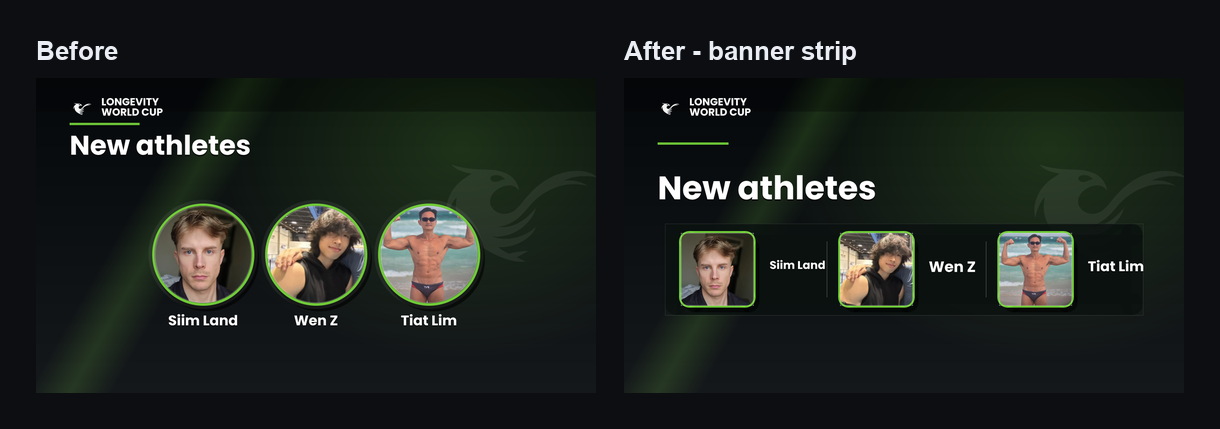
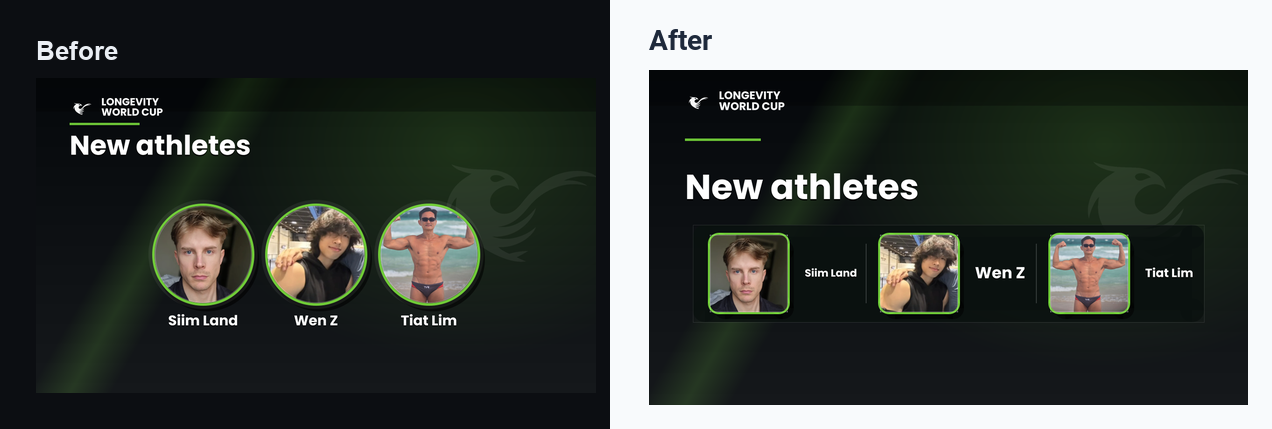
Harden newcomers name labels

diff --git a/LongevityWorldCup.Website/Business/XImageService.cs b/LongevityWorldCup.Website/Business/XImageService.cs
@@ -87,32 +87,48 @@ public class XImageService
         const int stripWidth = 1024;
         const int stripHeight = 196;
         var segmentWidth = stripWidth / athletes.Count;
-        var portraitSize = athletes.Count >= 4 ? 126 : 156;
+        var hasLongNames = HasLongNewcomerName(athletes, fonts.Bold);
+        var portraitSize = athletes.Count >= 4
+            ? (hasLongNames ? 112 : 126)
+            : (hasLongNames ? 126 : 156);
         var portraitY = stripY + ((stripHeight - portraitSize) / 2);
 
         for (var i = 0; i < athletes.Count; i++)
         {
             var athlete = athletes[i];
             var segmentX = stripX + (i * segmentWidth);
-            var portraitX = segmentX + (athletes.Count >= 4 ? 18 : 34);
-            var nameX = portraitX + portraitSize + (athletes.Count >= 4 ? 20 : 34);
-            var maxNameWidth = athletes.Count == 3
-                ? 122f
-                : MathF.Max(86f, segmentWidth - portraitSize - 40f);
+            var portraitInset = athletes.Count >= 4
+                ? (hasLongNames ? 14 : 18)
+                : (hasLongNames ? 22 : 34);
+            var nameGap = athletes.Count >= 4
+                ? (hasLongNames ? 16 : 20)
+                : (hasLongNames ? 22 : 34);
+            var portraitX = segmentX + portraitInset;
+            var nameX = portraitX + portraitSize + nameGap;
+            var dividerX = athletes.Count == 3 && !hasLongNames
+                ? portraitX + 312f
+                : segmentX + segmentWidth - 1f;
+            var rightBoundary = i < athletes.Count - 1
+                ? dividerX - 18f
+                : stripX + stripWidth - 20f;
+            var maxNameWidth = MathF.Max(86f, rightBoundary - nameX);
 
             await DrawRoundedProfileAsync(image, athlete.ProfilePath!, portraitX, portraitY, portraitSize, portraitSize, 18, GreenAccent, 4f);
 
             image.Mutate(ctx =>
             {
-                var nameFont = FitFontToWidth(fonts.Bold, athlete.Name, athletes.Count >= 4 ? 28f : 32f, 18f, maxNameWidth);
-                DrawTextShadow(ctx, athlete.Name, nameFont, new PointF(nameX, stripY + 78f), HorizontalAlignment.Left, 2f);
-                DrawWrappedText(ctx, athlete.Name, nameFont, TextColor, new PointF(nameX, stripY + 78f), maxNameWidth, 1, 38f);
+                DrawBoundedNameLabel(
+                    ctx,
+                    athlete.Name,
+                    fonts.Bold,
+                    new PointF(nameX, portraitY + (portraitSize / 2f)),
+                    maxNameWidth,
+                    athletes.Count >= 4 ? 28f : 32f,
+                    18f,
+                    maxLines: 2);
 
                 if (i < athletes.Count - 1)
                 {
-                    var dividerX = athletes.Count == 3
-                        ? portraitX + 312f
-                        : segmentX + segmentWidth - 18f;
                     ctx.Fill(new Rgba32(255, 255, 255, 42), new RectangularPolygon(dividerX, stripY + 38f, 2f, 120f));
                 }
             });
@@ -522,6 +538,166 @@ public class XImageService
                 VerticalAlignment = VerticalAlignment.Top
             }, text, color ?? TextColor);
         });
+    }
+
+    private static void DrawBoundedNameLabel(
+        IImageProcessingContext ctx,
+        string text,
+        FontFamily family,
+        PointF leftCenter,
+        float maxWidth,
+        float startSize,
+        float minSize,
+        int maxLines)
+    {
+        if (string.IsNullOrWhiteSpace(text) || maxWidth <= 0 || maxLines <= 0)
+            return;
+
+        Font font;
+        IReadOnlyList<string> lines;
+        for (var singleLineSize = startSize; singleLineSize >= minSize; singleLineSize -= 1f)
+        {
+            var singleLineFont = family.CreateFont(singleLineSize, FontStyle.Bold);
+            if (TextMeasurer.MeasureSize(text, new RichTextOptions(singleLineFont)).Width > maxWidth)
+                continue;
+
+            font = singleLineFont;
+            lines = [text];
+            DrawBoundedNameLines(ctx, lines, font, leftCenter, TextColor);
+            return;
+        }
+
+        var size = startSize;
+        while (true)
+        {
+            font = family.CreateFont(size, FontStyle.Bold);
+            var wrapped = WrapTextStrict(text, font, maxWidth, maxLines);
+            lines = wrapped.Lines;
+            if (!wrapped.Truncated || size <= minSize)
+                break;
+            size -= 1f;
+        }
+
+        DrawBoundedNameLines(ctx, lines, font, leftCenter, TextColor);
+    }
+
+    private static void DrawBoundedNameLines(
+        IImageProcessingContext ctx,
+        IReadOnlyList<string> lines,
+        Font font,
+        PointF leftCenter,
+        Color color)
+    {
+        var lineHeight = MathF.Ceiling(font.Size * 1.08f);
+        var totalHeight = (lineHeight * lines.Count) - MathF.Max(0f, lineHeight - font.Size);
+        var y = leftCenter.Y - (totalHeight / 2f);
+        foreach (var line in lines)
+        {
+            DrawTextShadow(ctx, line, font, new PointF(leftCenter.X, y), HorizontalAlignment.Left, 2f);
+            ctx.DrawText(new RichTextOptions(font)
+            {
+                Origin = new PointF(leftCenter.X, y),
+                HorizontalAlignment = HorizontalAlignment.Left,
+                VerticalAlignment = VerticalAlignment.Top
+            }, line, color);
+            y += lineHeight;
+        }
+    }
+
+    private static bool HasLongNewcomerName(IReadOnlyList<AthleteRenderInfo> athletes, FontFamily family)
+    {
+        var probeFont = family.CreateFont(24f, FontStyle.Bold);
+        return athletes.Any(a => TextMeasurer.MeasureSize(a.Name, new RichTextOptions(probeFont)).Width > 170f);
+    }
+
+    private static WrappedText WrapTextStrict(string text, Font font, float maxWidth, int maxLines)
+    {
+        var words = text.Split(' ', StringSplitOptions.RemoveEmptyEntries);
+        var lines = new List<string>();
+        var current = "";
+        var truncated = false;
+
+        for (var index = 0; index < words.Length; index++)
+        {
+            var word = words[index];
+            var candidate = string.IsNullOrWhiteSpace(current) ? word : $"{current} {word}";
+            if (TextMeasurer.MeasureSize(candidate, new RichTextOptions(font)).Width <= maxWidth)
+            {
+                current = candidate;
+                continue;
+            }
+
+            if (!string.IsNullOrWhiteSpace(current))
+            {
+                lines.Add(current);
+                current = "";
+                if (lines.Count >= maxLines)
+                {
+                    truncated = true;
+                    lines[^1] = AppendEllipsisToWidth(lines[^1], font, maxWidth);
+                    return new WrappedText(lines, truncated);
+                }
+
+                index--;
+                continue;
+            }
+
+            lines.Add(EllipsizeToWidth(word, font, maxWidth));
+            truncated = true;
+            if (lines.Count >= maxLines)
+                return new WrappedText(lines, truncated);
+        }
+
+        if (!string.IsNullOrWhiteSpace(current))
+            lines.Add(current);
+
+        if (lines.Count > maxLines)
+        {
+            truncated = true;
+            lines = lines.Take(maxLines).ToList();
+            lines[^1] = AppendEllipsisToWidth(lines[^1], font, maxWidth);
+        }
+
+        if (lines.Count == maxLines && words.Length > 0)
+        {
+            var consumed = string.Join(" ", lines).Length;
+            if (consumed < text.Trim().Length)
+            {
+                truncated = true;
+                lines[^1] = AppendEllipsisToWidth(lines[^1], font, maxWidth);
+            }
+        }
+
+        return new WrappedText(lines, truncated);
+    }
+
+    private static string AppendEllipsisToWidth(string text, Font font, float maxWidth)
+    {
+        const string ellipsis = "...";
+        var trimmed = text.TrimEnd();
+        while (trimmed.Length > 0 &&
+               TextMeasurer.MeasureSize(trimmed + ellipsis, new RichTextOptions(font)).Width > maxWidth)
+        {
+            trimmed = trimmed[..^1].TrimEnd();
+        }
+
+        return string.IsNullOrWhiteSpace(trimmed) ? ellipsis : trimmed + ellipsis;
+    }
+
+    private static string EllipsizeToWidth(string text, Font font, float maxWidth)
+    {
+        const string ellipsis = "...";
+        if (TextMeasurer.MeasureSize(text, new RichTextOptions(font)).Width <= maxWidth)
+            return text;
+
+        var trimmed = text.TrimEnd();
+        while (trimmed.Length > 0 &&
+               TextMeasurer.MeasureSize(trimmed + ellipsis, new RichTextOptions(font)).Width > maxWidth)
+        {
+            trimmed = trimmed[..^1].TrimEnd();
+        }
+
+        return string.IsNullOrWhiteSpace(trimmed) ? ellipsis : trimmed + ellipsis;
     }
 
     private static void MakeCircular(Image<Rgba32> image)
@@ -1024,5 +1200,6 @@ public class XImageService
     }
 
     private sealed record AthleteRenderInfo(string Slug, string Name, string? ProfilePath, int Rank, double? AgeReduction);
+    private sealed record WrappedText(IReadOnlyList<string> Lines, bool Truncated);
     private readonly record struct LeaderboardRow(int Rank, int X, int Y, int Width, int Height, int PortraitSize);
 }

diff --git a/LongevityWorldCup.Tests/SocialImageRenderingTests.cs b/LongevityWorldCup.Tests/SocialImageRenderingTests.cs
@@ -24,6 +24,12 @@ public sealed class SocialImageRenderingTests
         await AssertPngCanvasAsync(await images.BuildAthleteCountMilestoneImageAsync(100));
         await AssertPngCanvasAsync(await images.BuildTop3LeaderboardPodiumImageAsync(top3Slugs));
         await AssertPngCanvasAsync(await images.BuildNewcomersImageAsync(top3Slugs));
+        await AssertPngCanvasAsync(await images.BuildNewcomersImageAsync(new[]
+        {
+            "andressa-lohana-de-almeida",
+            "vishwamithra-shashishekara",
+            "teodor-katrandjiev-okoto"
+        }));
     }
 
     [Fact]
